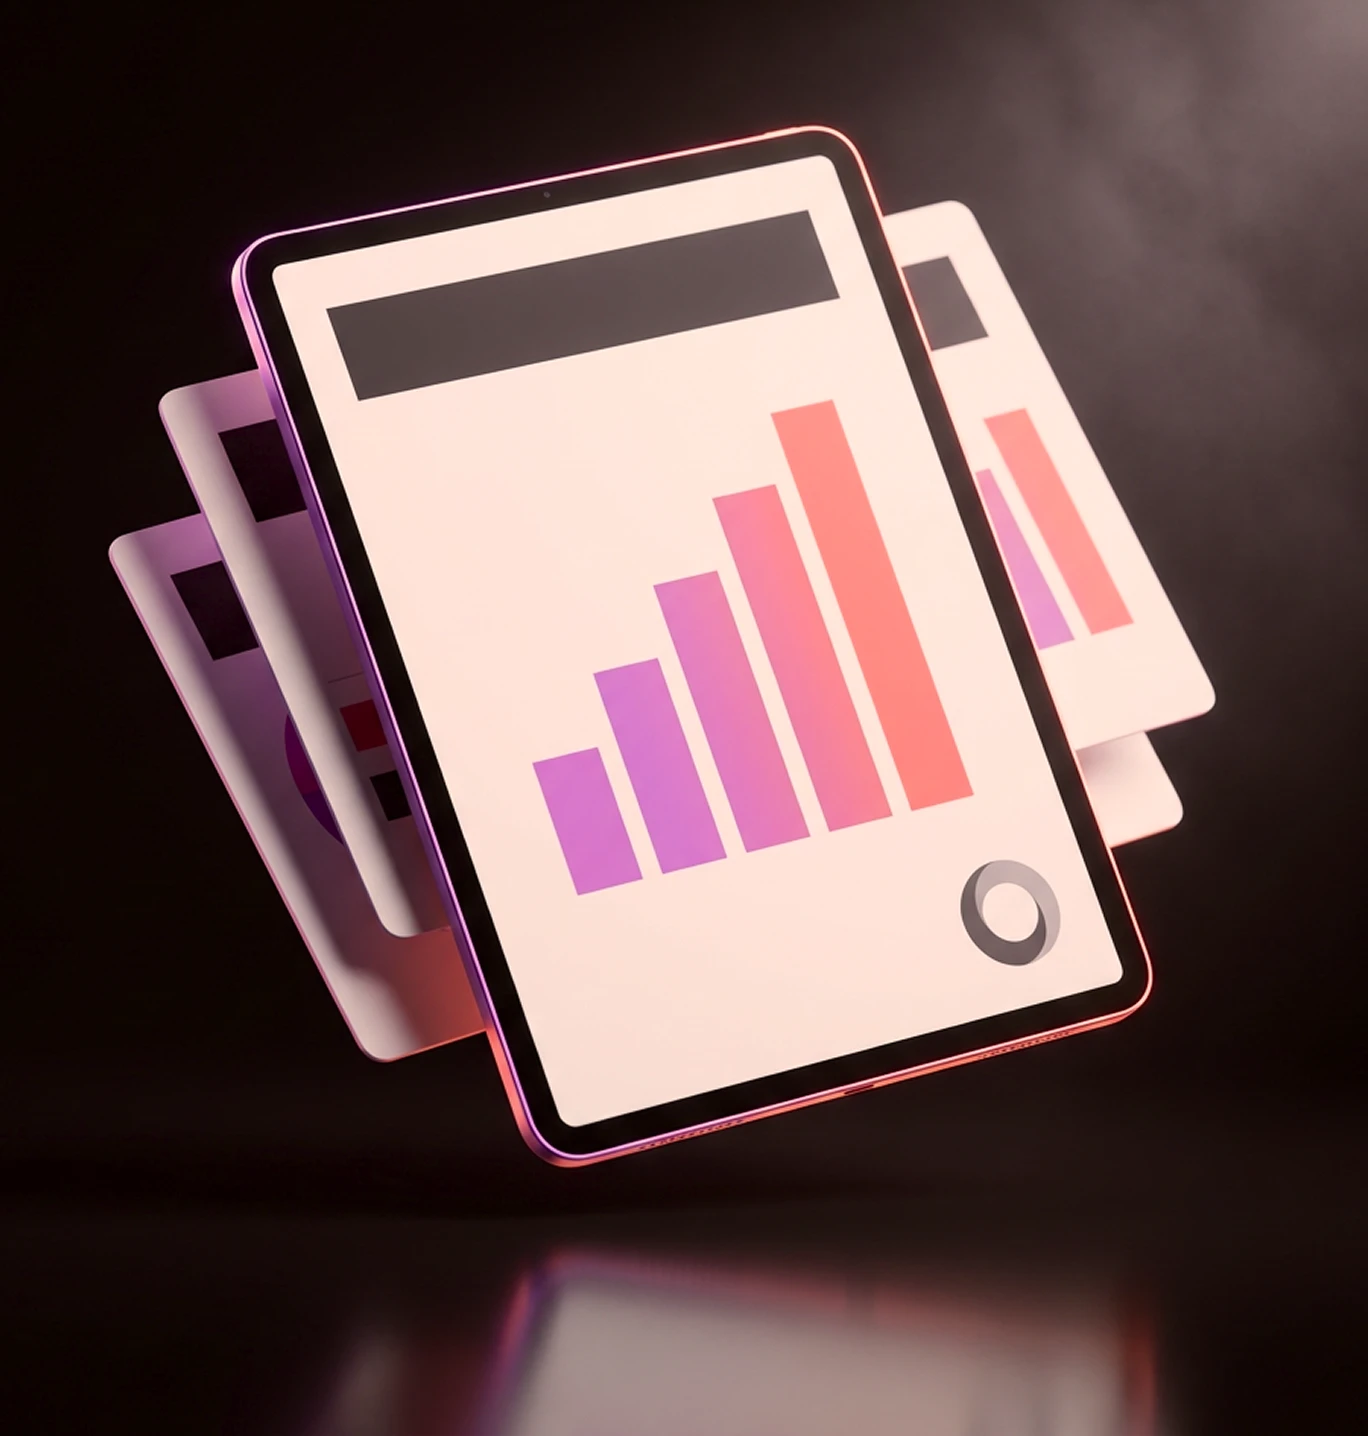
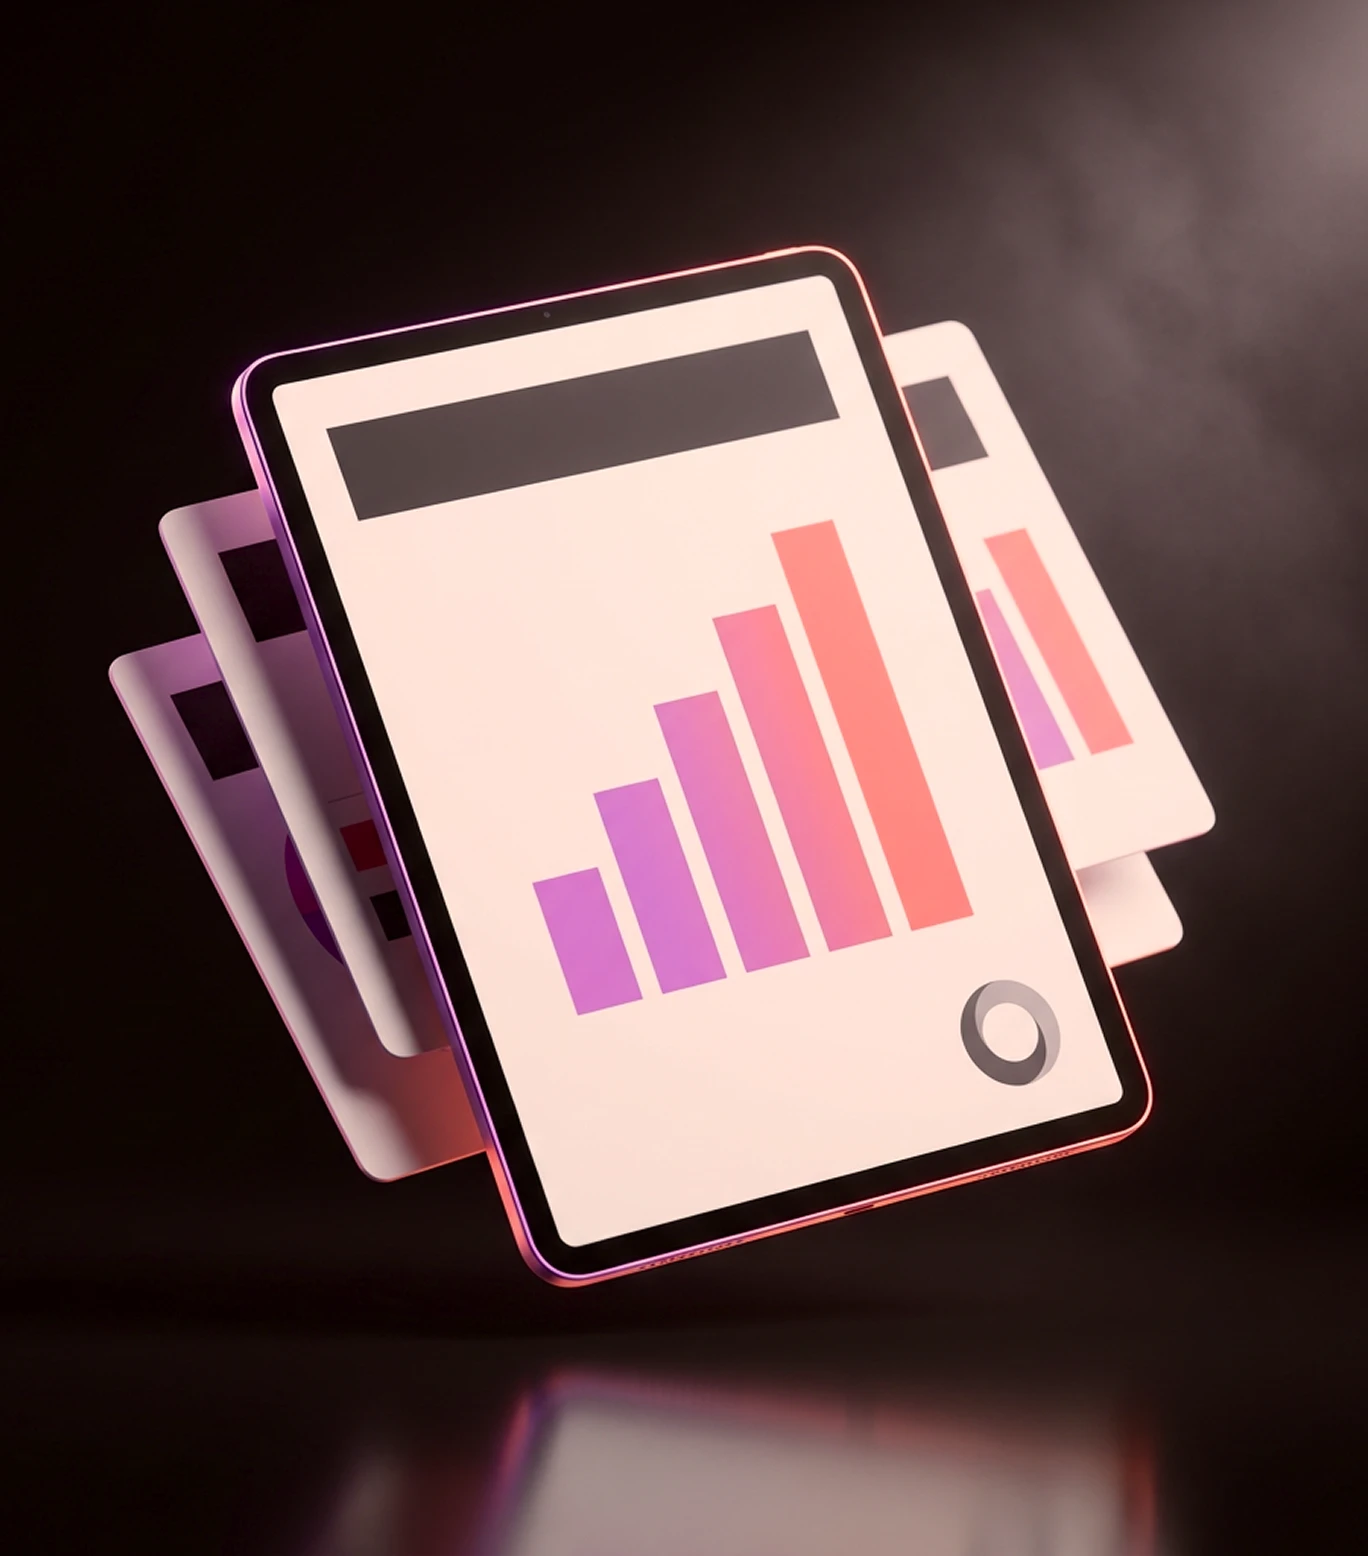
Fix top-heavy centering in WorkSection sticky cards
Revert the earlier photo crop (wrong diagnosis) and fix the actual
cause: the sticky pinned box spanned from top-[120px] down to the
literal viewport bottom, so it had a 120px gutter above (the nav) but
none below. Centering content inside that lopsided box still left it
net-shifted down relative to the true viewport. Added matching
pb-[120px] to the centered flex container so top/bottom gaps are now
equal — verified at 90px/90px on a 1440x900 viewport.

diff --git a/src/components/WorkSection.tsx b/src/components/WorkSection.tsx
@@ -135,7 +135,7 @@ function StickyTakeover() {
             animate={{ opacity: 1, scale: 1 }}
             exit={{ opacity: 0, scale: 1.03 }}
             transition={{ duration: 0.7, ease: [0.16, 1, 0.3, 1] }}
-            className="absolute inset-0 flex items-center"
+            className="absolute inset-0 flex items-center pb-[120px]"
           >
             <ProductPanel product={PRODUCTS[active]} />
           </motion.div>
